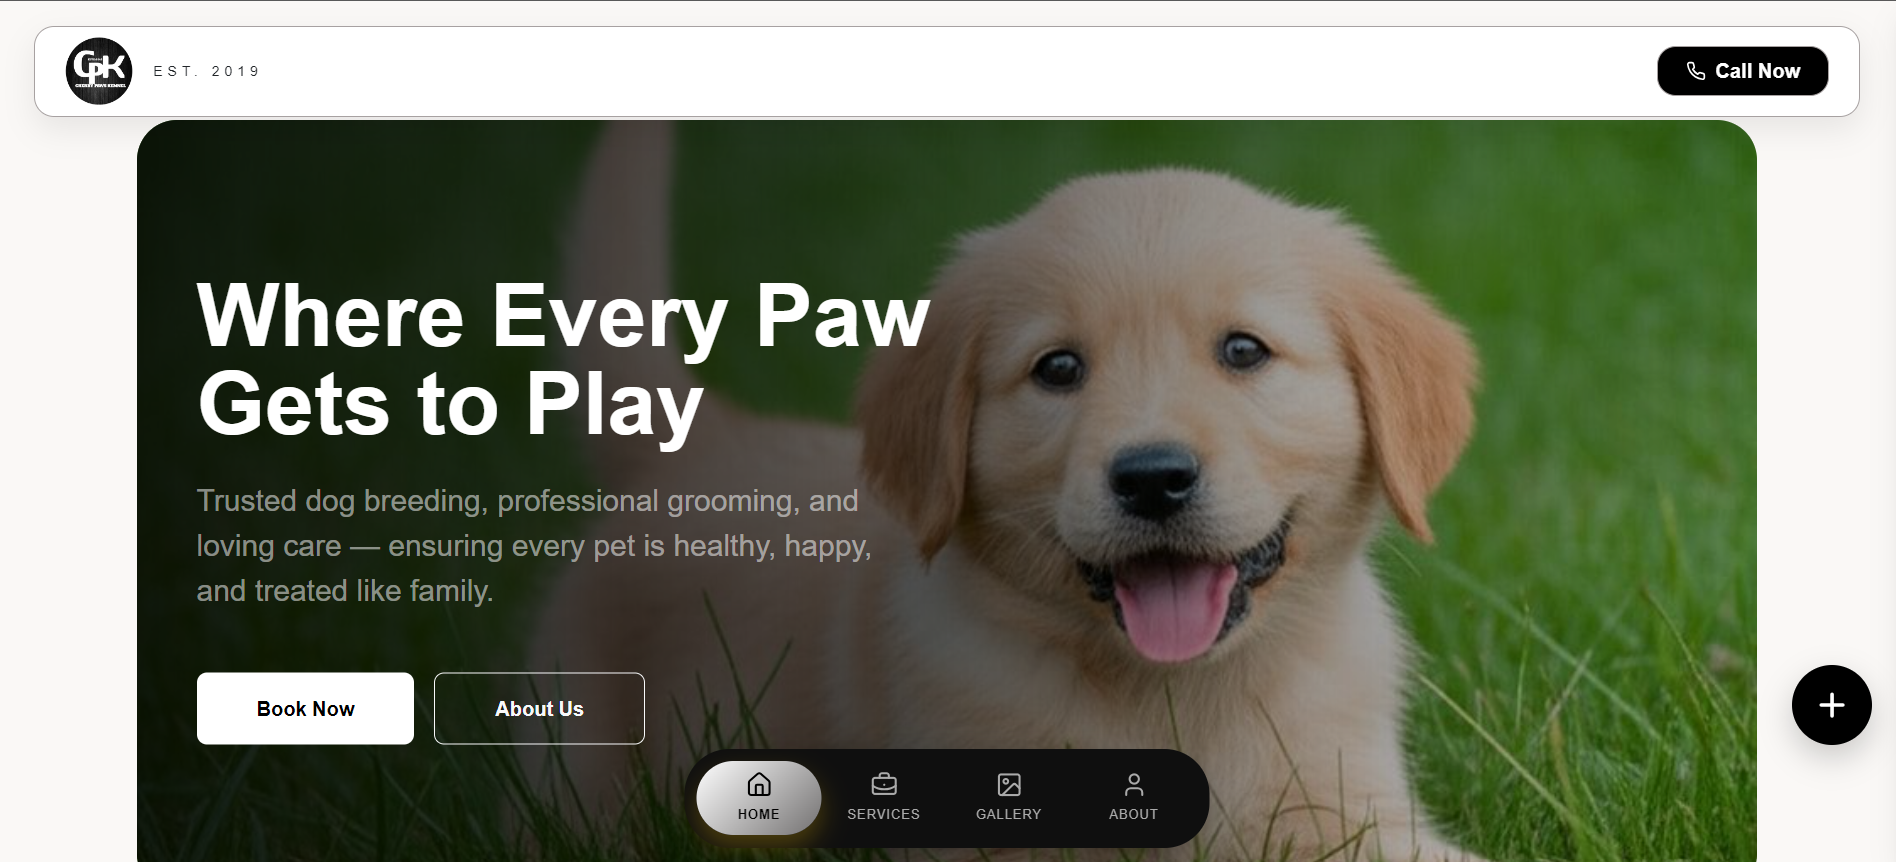
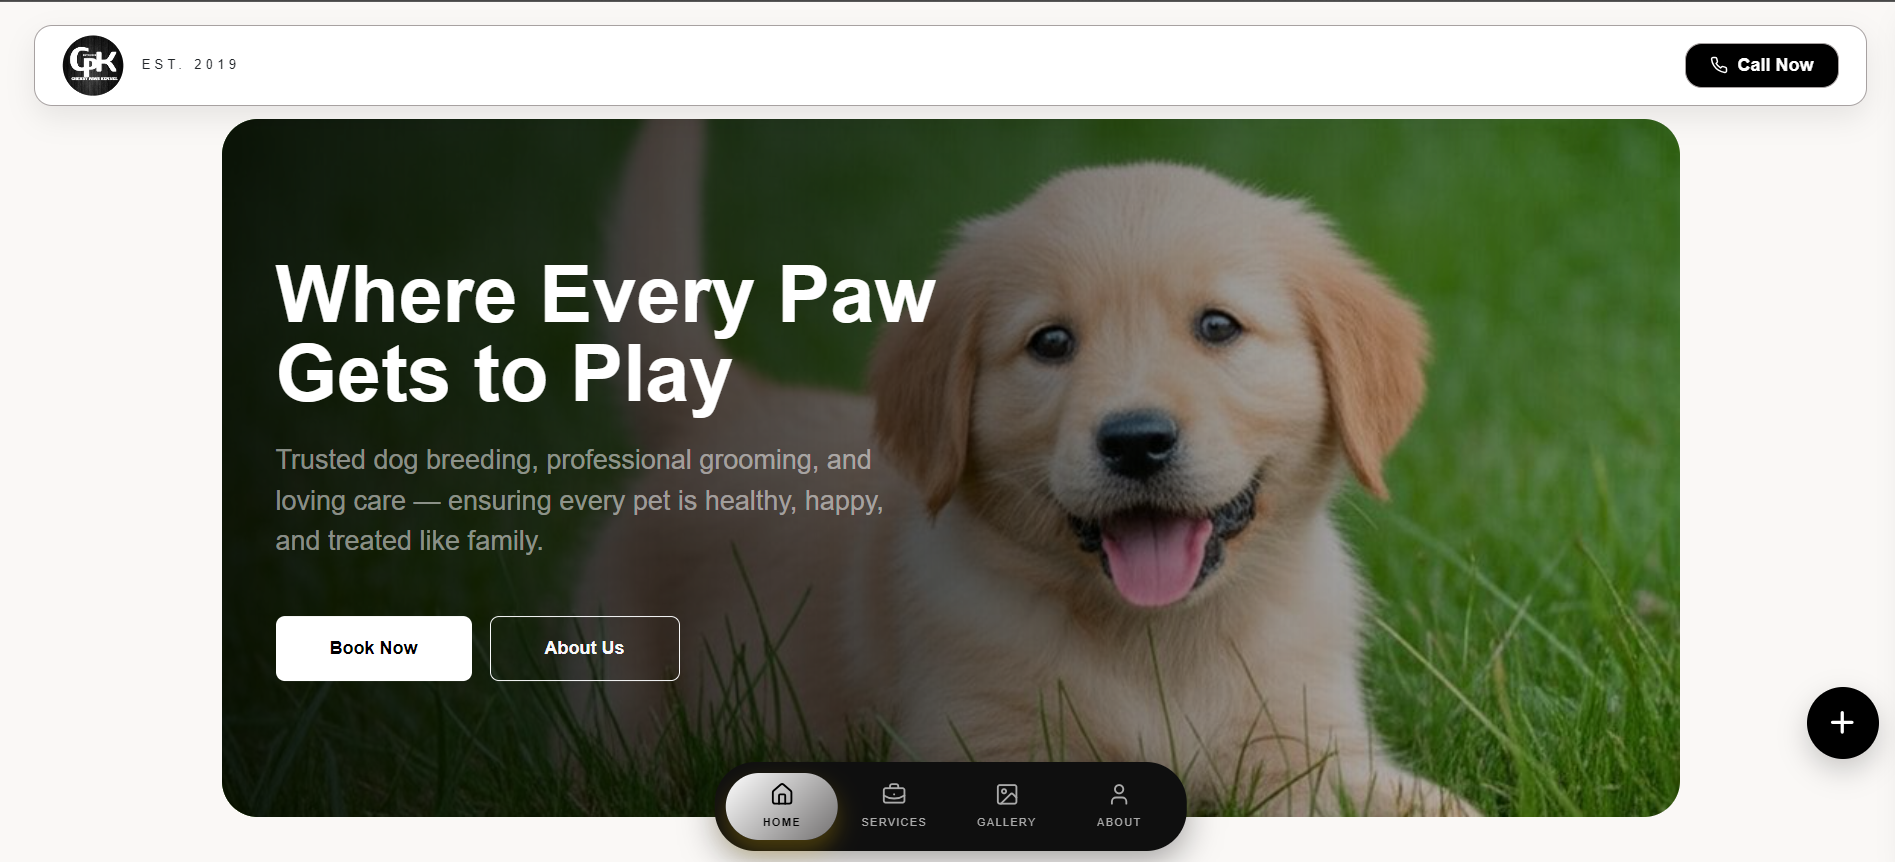
Readme changed

diff --git a/README.md b/README.md
@@ -19,15 +19,17 @@
 
 ## 🌍 Live Preview
 
-![Main Page](./screenshots/main_page.png)
+[![Main Page](./screenshots/main_page.png)](https://cherrypawskennel.netlify.app/)
 
 🔗 **Live Website:** https://cherrypawskennel.netlify.app/
 
 # ✨ Overview
 
-Hello11 Cab Booking is a modern, production-ready frontend application designed to provide a premium digital experience for taxi and cab booking services.
+**Cherry Paws Kennel** is a modern, production-ready frontend application designed to provide a premium digital experience for dog breeding, puppy adoption, and professional pet care services.
 
-The project follows modern React architecture with reusable components, responsive layouts, polished animations, and Progressive Web App capabilities to ensure excellent usability across desktop, tablet, and mobile devices.
+The project follows modern React architecture with reusable components, responsive layouts, polished animations, and Progressive Web App (PWA) capabilities to deliver a seamless experience across desktop, tablet, and mobile devices.
+
+ It showcases available dog breeds, kennel services, puppy care information, and an intuitive user interface that helps visitors explore trusted breeding and pet care solutions with ease.
 
 ---
 